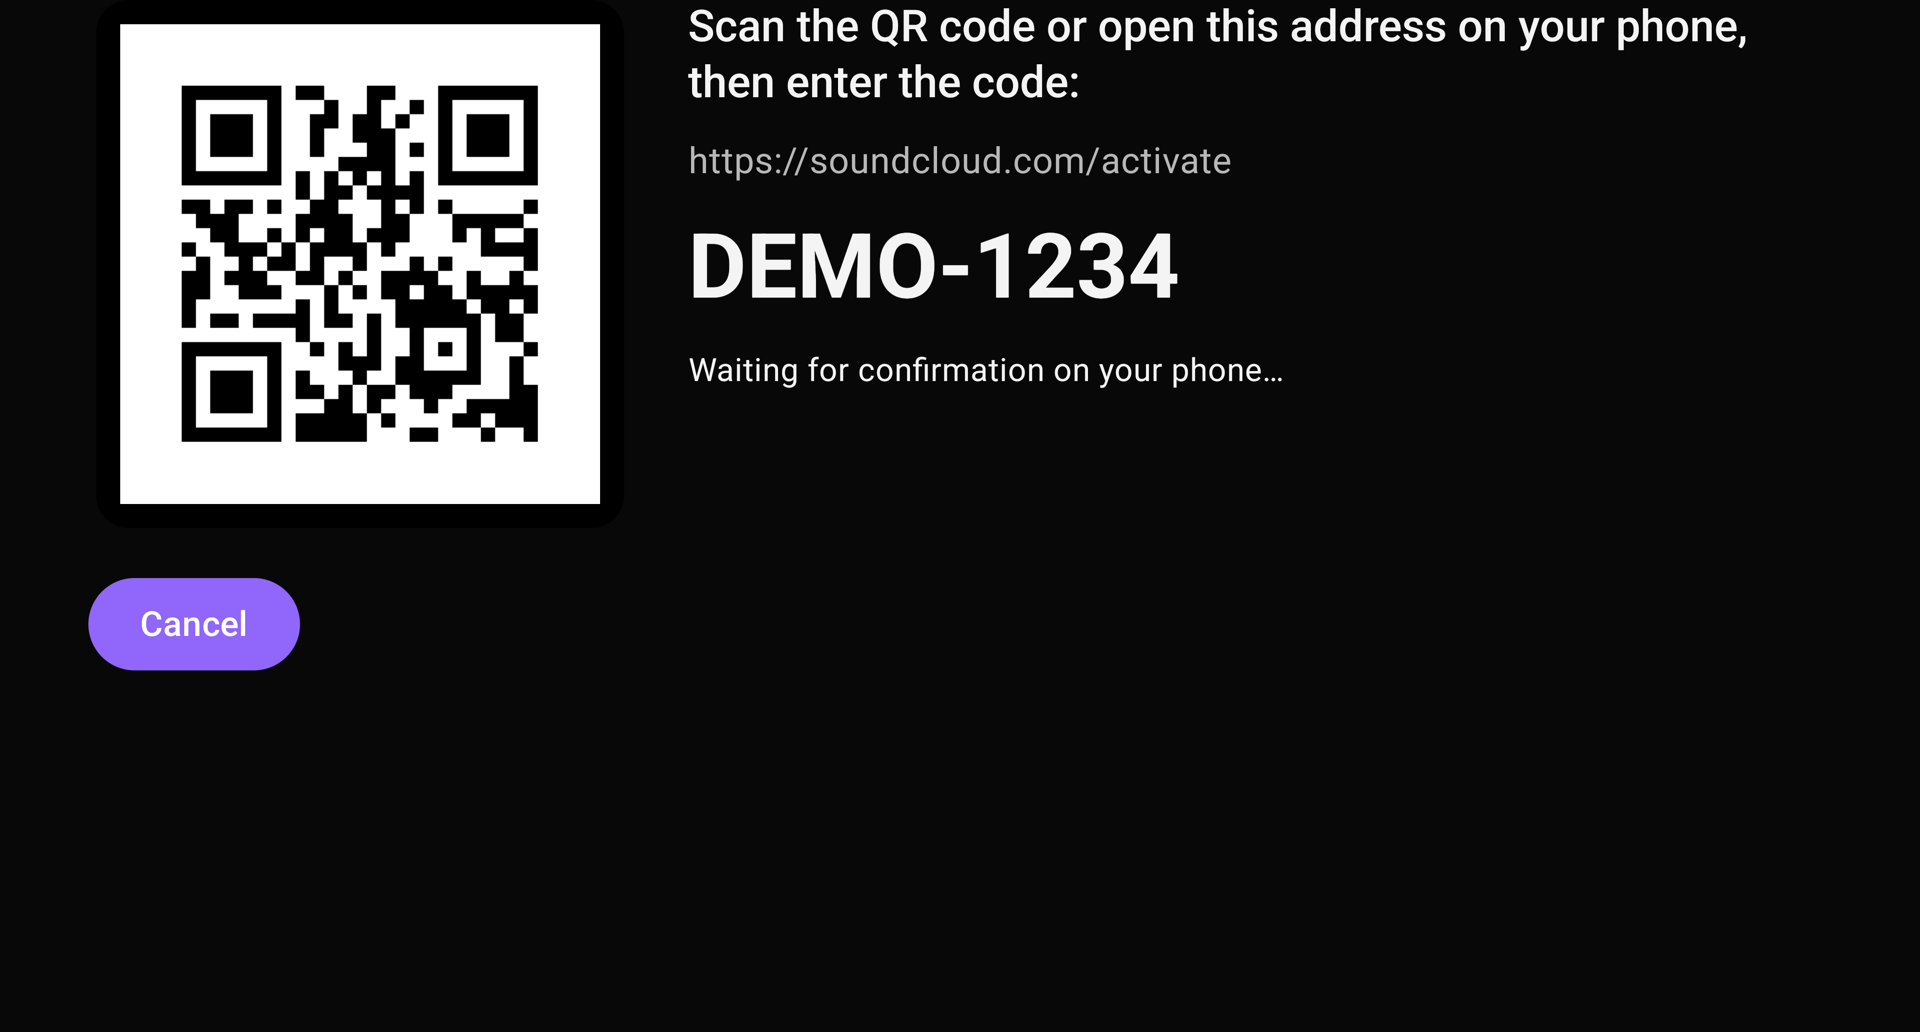
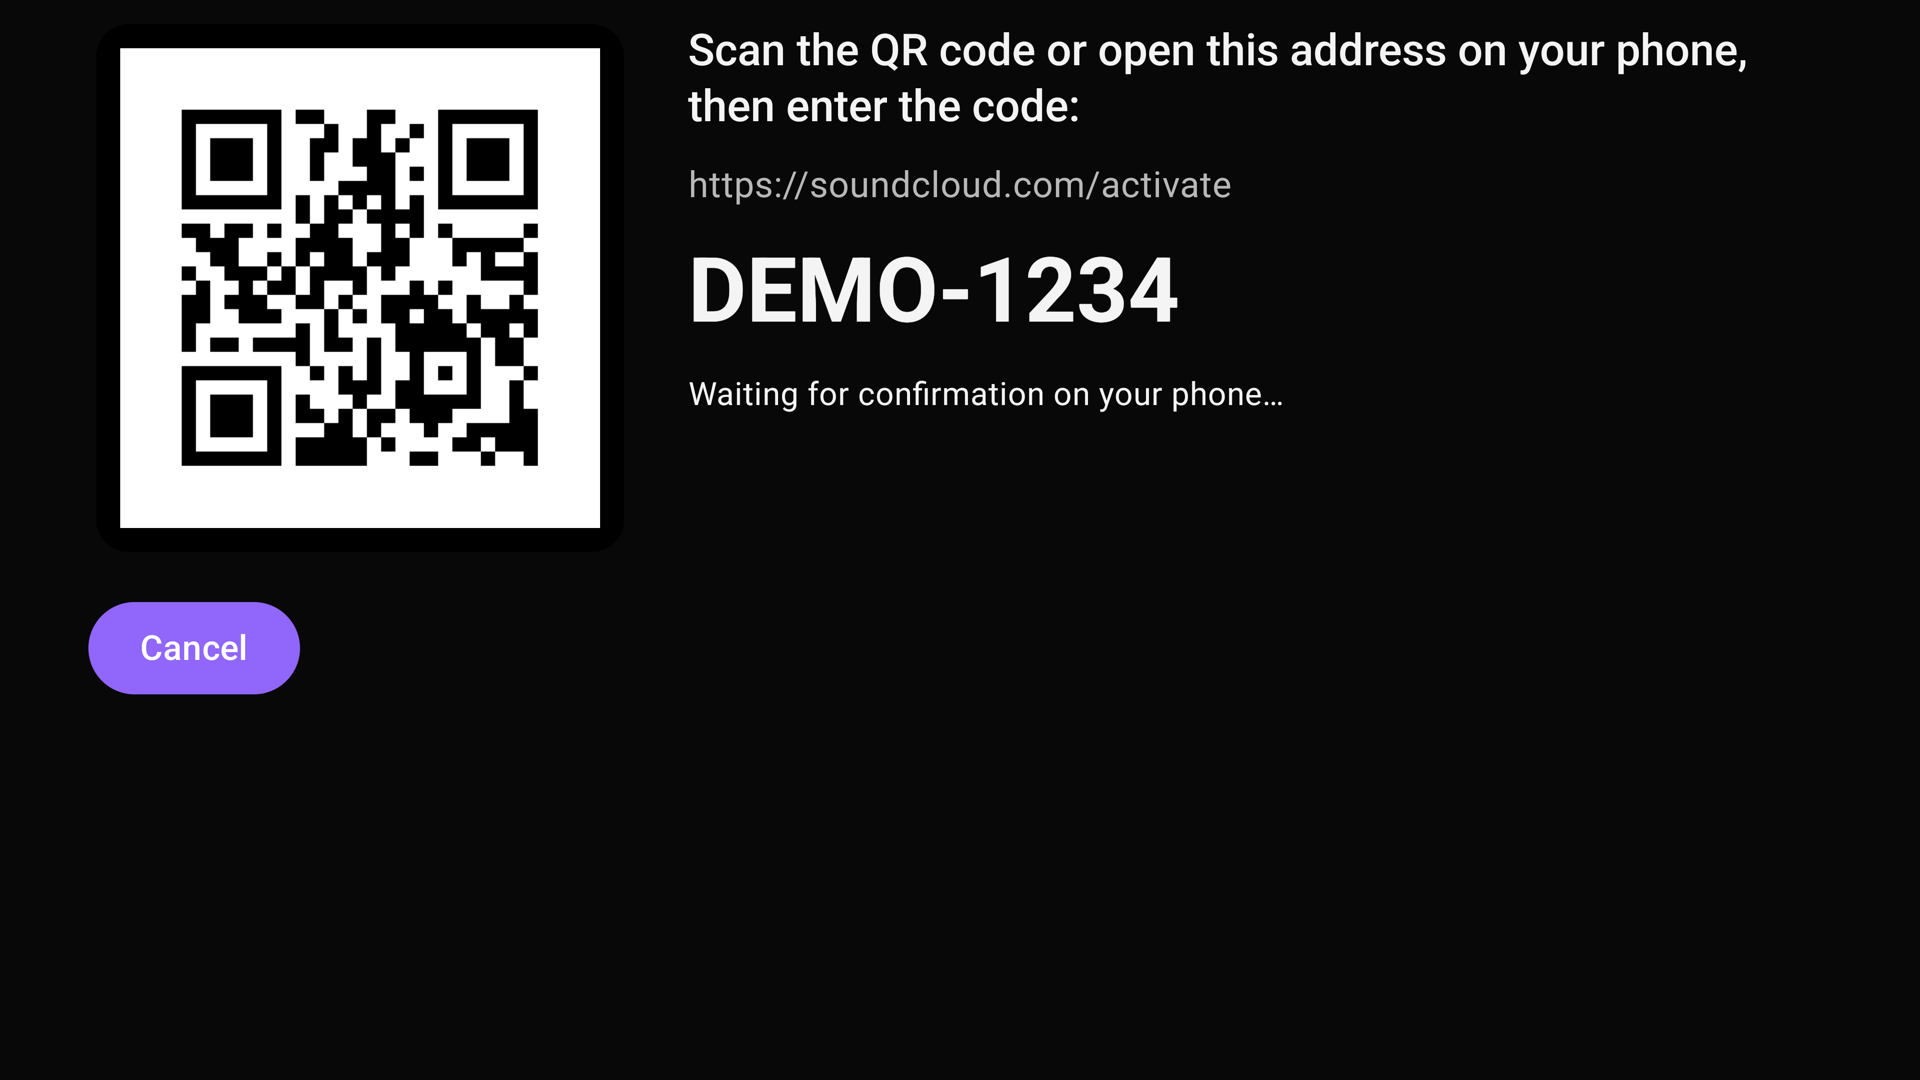
docs(guide): define every site colour once and normalize the pairing image
Move all Pages colours into named palette variables used through var(), so no
rule repeats a hex value, and pad the SoundCloud pairing example to 1920x1080 with
its own background. AGENTS.md now names the logo and favicon as the only
non-1080 images.

diff --git a/docs/user-guide/stylesheets/milkbeat.css b/docs/user-guide/stylesheets/milkbeat.css
@@ -1,34 +1,44 @@
-/* Milkbeat palette on Material for MkDocs (slate scheme), matching the app's dark TV theme. */
+/* Milkbeat palette on Material for MkDocs (slate scheme), matching the app's dark TV theme.
+   The palette: every colour on the site is defined here once and used through var(). */
 :root > * {
-  --md-primary-fg-color: #b39dff;
-  --md-primary-fg-color--light: #d4c6ff;
-  --md-primary-fg-color--dark: #8b6cf6;
-  --md-primary-bg-color: #0b0b0f;
-  --md-accent-fg-color: #7fd8d0;
+  --mb-background: #0b0b0f;
+  --mb-on-background: #f2f2f5;
+  --mb-primary: #b39dff;
+  --mb-primary-light: #d4c6ff;
+  --mb-primary-dark: #8b6cf6;
+  --mb-accent: #7fd8d0;
+  --mb-surface: #141419;
+  --mb-surface-raised: #1c1c23;
+  --mb-code: #17171d;
+  --mb-outline: #2c2c35;
+  --mb-outline-strong: #5a5a68;
+
+  --md-primary-fg-color: var(--mb-primary);
+  --md-primary-fg-color--light: var(--mb-primary-light);
+  --md-primary-fg-color--dark: var(--mb-primary-dark);
+  --md-primary-bg-color: var(--mb-background);
+  --md-accent-fg-color: var(--mb-accent);
 }
 
 [data-md-color-scheme="slate"] {
   --md-hue: 255;
-  --md-default-bg-color: #0b0b0f;
-  --md-default-bg-color--light: #141419;
-  --md-code-bg-color: #17171d;
-  --md-typeset-a-color: #b39dff;
-  --mb-surface: #141419;
-  --mb-surface-raised: #1c1c23;
-  --mb-outline: #2c2c35;
+  --md-default-bg-color: var(--mb-background);
+  --md-default-bg-color--light: var(--mb-surface);
+  --md-code-bg-color: var(--mb-code);
+  --md-typeset-a-color: var(--mb-primary);
 }
 
 .md-header,
 .md-tabs {
-  background-color: #0b0b0f;
-  color: #f2f2f5;
+  background-color: var(--mb-background);
+  color: var(--mb-on-background);
 }
 
 .md-header { border-bottom: 1px solid var(--mb-outline); }
 .md-tabs { border-bottom: 1px solid var(--mb-outline); }
 .md-tabs__link { opacity: 0.75; }
 .md-tabs__link--active,
-.md-tabs__link:hover { opacity: 1; color: #b39dff; }
+.md-tabs__link:hover { opacity: 1; color: var(--mb-primary); }
 
 .md-header__button.md-logo img { height: 1.6rem; border-radius: 6px; }
 
@@ -78,7 +88,7 @@
   background-color: var(--mb-surface);
   transition: border-color 0.2s;
 }
-.md-typeset .grid.cards > ul > li:hover { border-color: #5a5a68; }
+.md-typeset .grid.cards > ul > li:hover { border-color: var(--mb-outline-strong); }
 
 .md-typeset .grid.mb-two {
   grid-template-columns: repeat(auto-fit, minmax(min(100%, 22rem), 1fr));

diff --git a/AGENTS.md b/AGENTS.md
@@ -794,7 +794,8 @@ revision must pass the configured ktlint rules.
   styled like the ProjectM TV guide. Visualizer pages give an overview and link to
   <https://johnneerdael.github.io/ProjectM-TV/> for engine and setting depth. `docs/user-guide-site.md`
   records the page conventions and screenshot provenance.
-- Guide screenshots live in `docs/user-guide/images/` at 1920×1080 (TV UI captures via
+- Guide screenshots live in `docs/user-guide/images/`; all are 1920×1080 except the site's `logo.png`
+  and `favicon.png` (TV UI captures via
   `adb exec-out screencap -p`); downscale 4K captures to match (for example `sips -Z 1920 shot.png`).
   Blur account names, avatars and usernames before committing, and delete images no page references.
 
